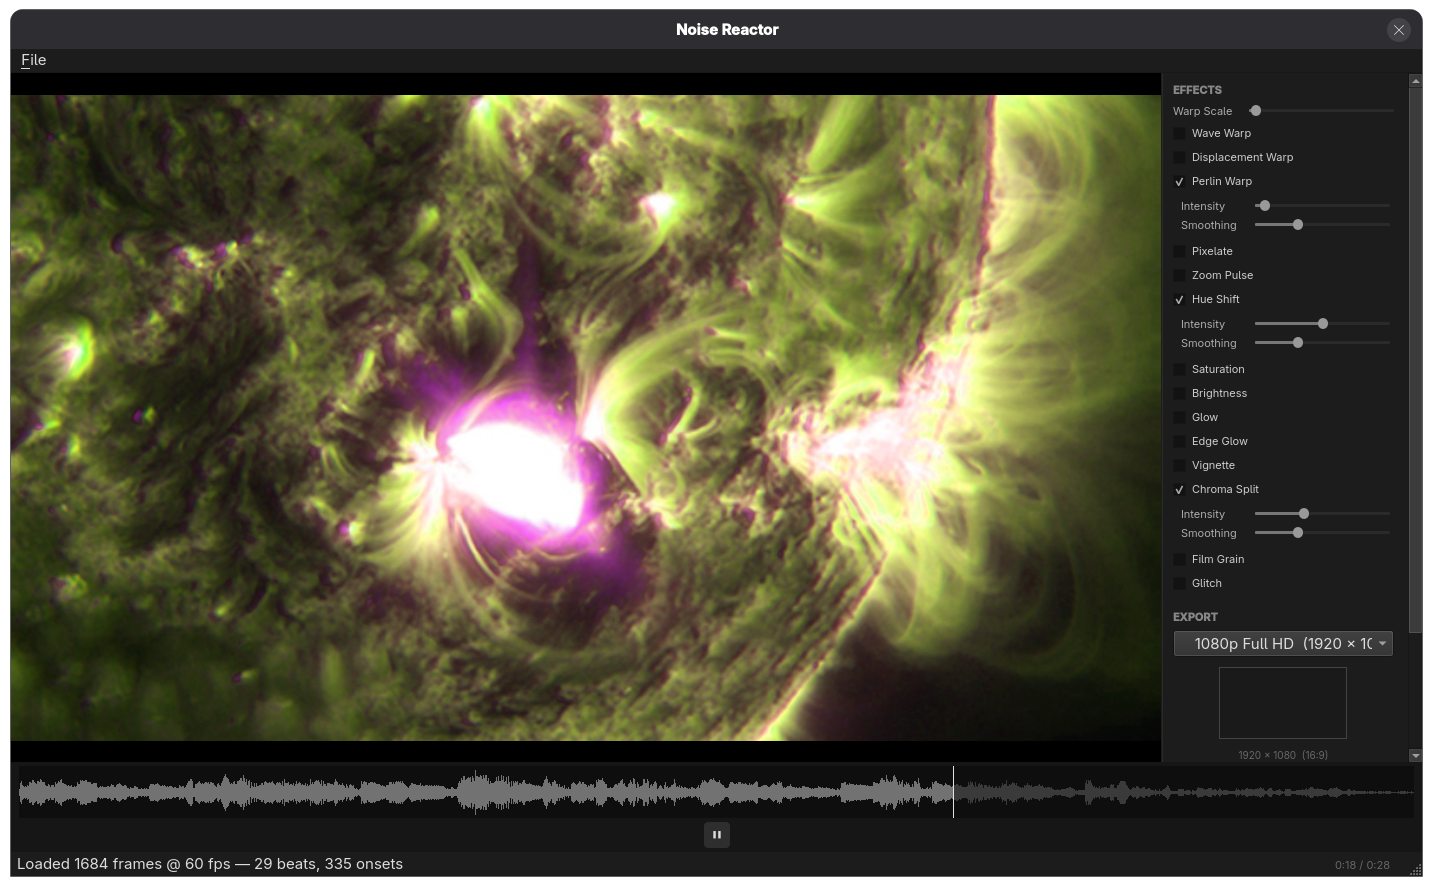
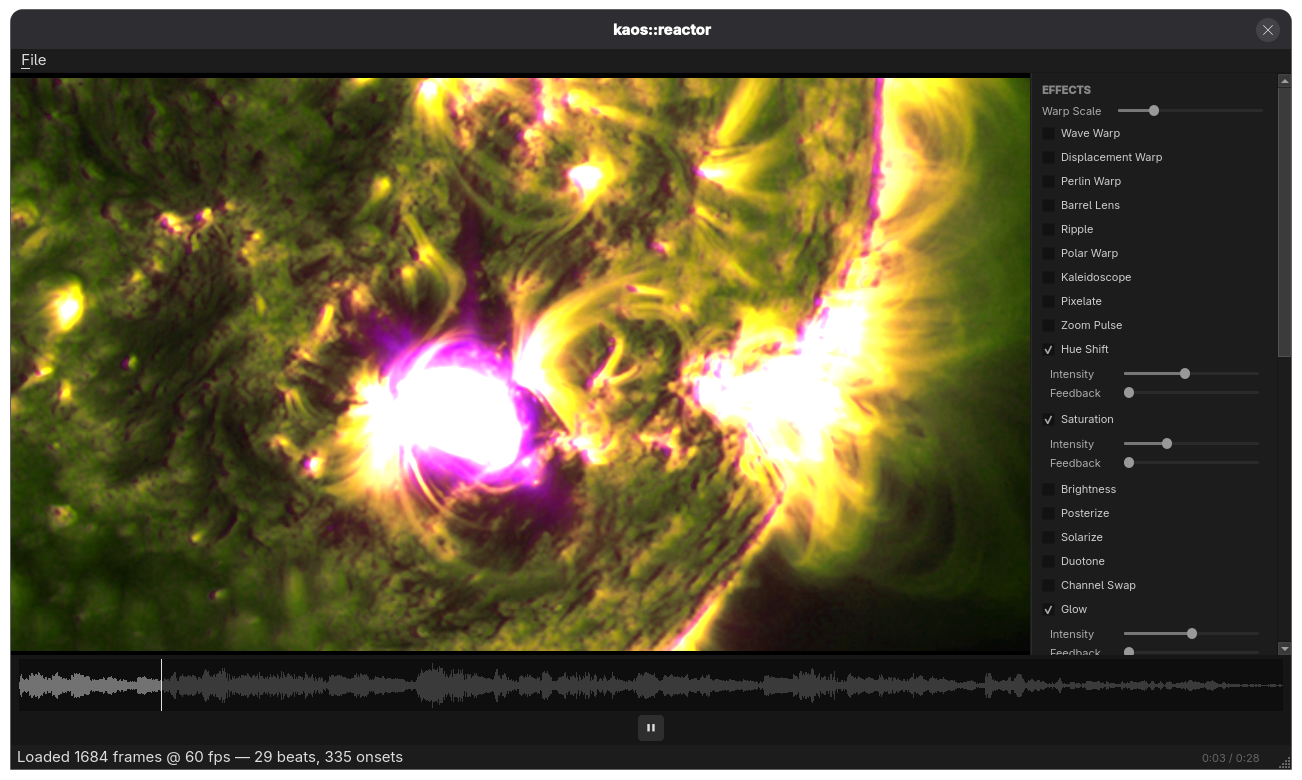
Update naming to kaos::reactor throughout

diff --git a/kaos/reactor/app.cc b/kaos/reactor/app.cc
@@ -45,7 +45,7 @@
 namespace kaos::reactor {
 
 App::App(QWidget* parent) : QMainWindow(parent) {
-    setWindowTitle("Kaos Reactor");
+    setWindowTitle("kaos::reactor");
     setMinimumSize(1280, 720);
 
     analysis_watcher_ = new QFutureWatcher<AudioAnalysis>(this);

diff --git a/README.md b/README.md
@@ -1,14 +1,14 @@
-# Kaos Reactor
+# kaos::reactor
 
 A desktop tool that turns an audio file and a static image into a music-reactive visual.
 
-![Kaos Reactor](doc/kaos_reactor.png)
+![kaos::reactor](doc/kaos_reactor.png)
 
 ---
 
 ## How it works
 
-Kaos Reactor analyzes the audio offline before playback begins. It runs a 2048-point FFT at 60 fps hops and extracts per-frame features — RMS energy, bass / mid / treble band energy, spectral centroid, spectral flux, beat events, and onset events. Those features are packed into a GPU uniform buffer each frame and drive a Vulkan fragment shader that applies effects in real time to the source image.
+kaos::reactor analyzes the audio offline before playback begins. It runs a 2048-point FFT at 60 fps hops and extracts per-frame features — RMS energy, bass / mid / treble band energy, spectral centroid, spectral flux, beat events, and onset events. Those features are packed into a GPU uniform buffer each frame and drive a Vulkan fragment shader that applies effects in real time to the source image.
 
 The timeline scrubber lets you preview any moment of the audio-visual sync before committing to an export. Export pipes raw RGBA frames to ffmpeg via stdin, muxing the original audio into the final MP4.
 